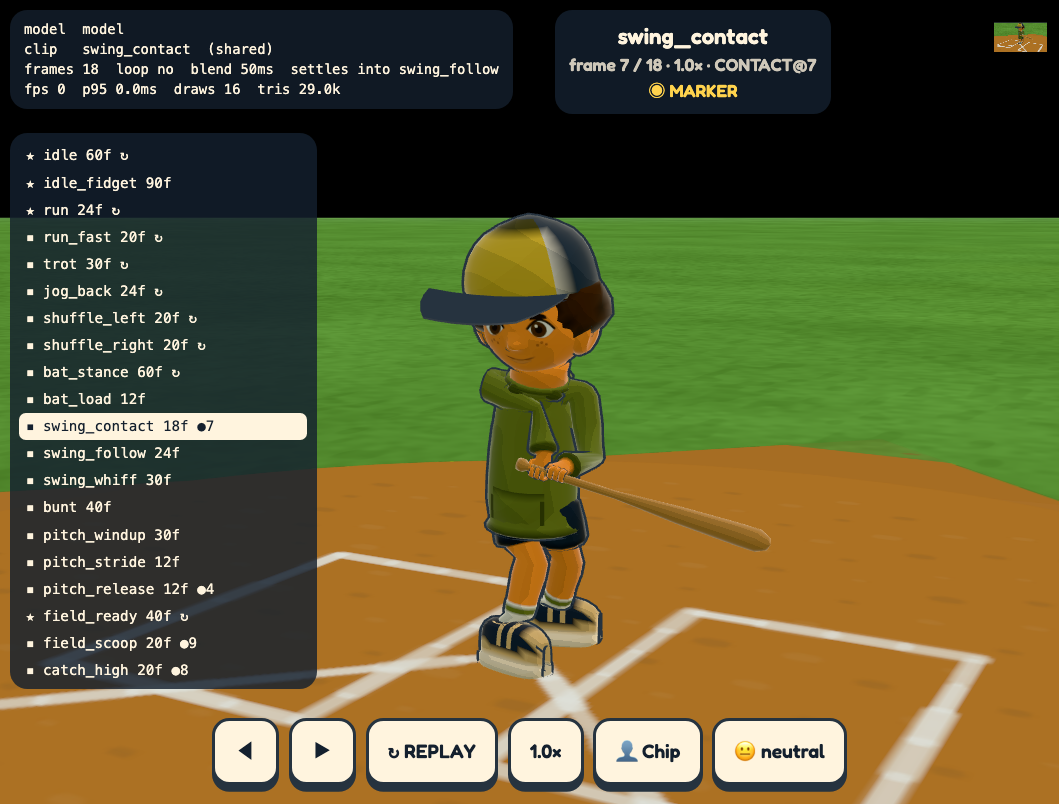
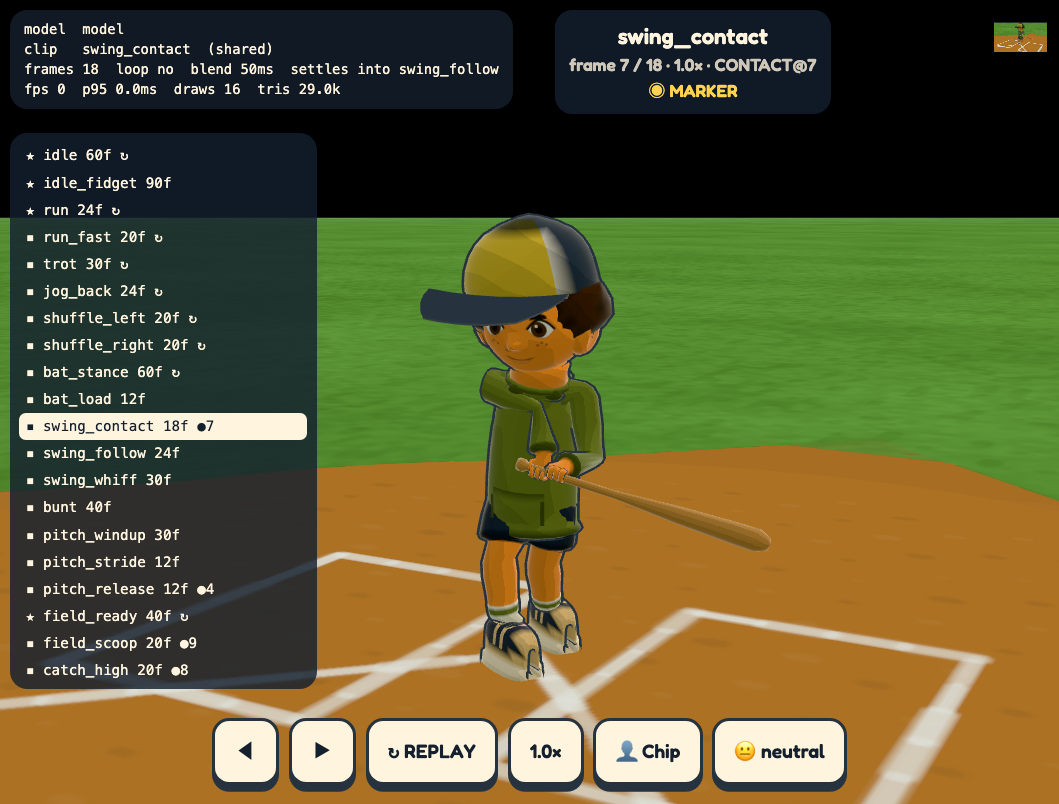
Uncross the batting knees and keep the bat moving through the ball
The follow-ups left open by #257. Seen from the pitcher, the knees crossed at
every pitch height: the pelvis opened while each knee still aimed at the
plate. The knees now follow the hips and the rear foot pivots. The barrel
eased to a stop at contact and then snapped away; it now carries one angular
speed through the ball. Seated, Zoom's trunk no longer side-bends his rear
shoulder into his cheek, and his hands drop past his knees rather than onto
his lap. audit:batting and HandPose.test gain knee-order, knee-cave and
barrel-stall checks; main fails them.

Changed region(s): [[0.4363, 0.6219, 0.5921, 0.8706]]

diff --git a/src/v2/render/battingPose.ts b/src/v2/render/battingPose.ts
@@ -112,7 +112,7 @@ function hermite(p0: Vector3, m0: Vector3, p1: Vector3, m1: Vector3, u: number):
 }
 
 /** The hands at frame `f` of a swing. */
-function swingHands(wind: Vector3, contact: Vector3, through: Vector3, f: number): Vector3 {
+function swingHands(wind: Vector3, contact: Vector3, through: Vector3, f: number, drop = SWING_DROP_FRAME): Vector3 {
   const velocity = through.clone().sub(wind).multiplyScalar(CONTACT_HAND_VELOCITY);
   const along = (launch: number) => {
     if (f <= launch) return wind.clone();
@@ -124,7 +124,7 @@ function swingHands(wind: Vector3, contact: Vector3, through: Vector3, f: number
     const span = to - from;
     return hermite(p0, m0.clone().multiplyScalar(span), p1, m1.clone().multiplyScalar(span), (f - from) / span);
   };
-  const hands = along(SWING_DROP_FRAME).setX(along(SWING_DRIVE_FRAME).x);
+  const hands = along(drop).setX(along(SWING_DRIVE_FRAME).x);
   const u = (f - CONTACT_FRAME) / 2;
   if (Math.abs(u) < 1) hands.x -= CONTACT_WHIP_FT * Math.sin(Math.PI * u) * Math.cos(Math.PI * u / 2) ** 2;
   return hands;
@@ -192,6 +192,24 @@ const BUNT_ELBOW_MARGIN_FT = .25;
  * hands into the belly, and this is a small residual correction.
  */
 const PALM_CLEARANCE_FT = .1;
+/** How far each foot pivots with the opening hips: the rear on its ball, the lead a little. */
+const REAR_FOOT_PIVOT = .6;
+const LEAD_FOOT_PIVOT = .2;
+/**
+ * ★ THE BAT IS FASTEST THROUGH THE BALL. The barrel eased to a stop at contact
+ * and away from it (2.6 degrees per half-frame at the ball, 25 either side), so
+ * the follow-through read as a snap out of a stall. It now arrives at this
+ * slope and leaves at the matching angular speed. Much steeper and the lead
+ * forearm rolls past 25 degrees per quarter-frame on a high pitch (Sprout).
+ */
+const BAT_WHIP = 1.75;
+/**
+ * Seated, the hands start down only from this frame, once they are past the
+ * knees: dropping from frame 1 laid Zoom's palms on his thighs before contact.
+ */
+const SEATED_SWING_DROP_FRAME = 4;
+/** 0 -> 1 over t in [0, 1], still at 0 and arriving at slope `k` (<= 3). */
+const into = (t: number, k: number) => { const u = Math.max(0, Math.min(1, t)); return (k - 2) * u ** 3 + (3 - k) * u * u; };
 const HEAD_FOLLOW = .5;
 /** Still inside the 18-degree look-at-the-pitcher gate (`battingPose.test.ts`). */
 const HEAD_FOLLOW_MAX = 15 * Math.PI / 180;
@@ -442,9 +460,11 @@ export class BattingPose {
       // The margin only works with the bat held out in front (see `apply`):
       // with the hands at the chest there is no low elbow the wrist affords.
       const elbowRise = Math.max(0, elbow.y - (shoulder.y - BUNT_ELBOW_MARGIN_FT));
+      // The wrist limit is a wall in every batting clip, not only the bunt: a
+      // seated low pitch otherwise folded Zoom's knob wrist past 40 degrees.
       const wristOver = Math.max(0, wristBend - WRIST_LIMIT_RAD);
       const score = 8*wristBend*wristBend + elbowPreference*(1-bend.dot(preferred)) + .03*roll*roll + 100*reach*reach + 40*Math.max(0,roll-Math.PI/2)**2
-        + this.buntWeight*((this.seated ? SEATED_ELBOW_WEIGHT : 60)*elbowRise*elbowRise + 400*wristOver*wristOver);
+        + this.buntWeight*(this.seated ? SEATED_ELBOW_WEIGHT : 60)*elbowRise*elbowRise + 400*wristOver*wristOver;
       return {rotation, wrist, bend, score, angle};
     };
     let best = evaluate(0);
@@ -549,12 +569,17 @@ export class BattingPose {
       const f = time * FPS;
       // Contact is the MIDDLE of the fastest sweep, not a stop between two
       // eases: both halves share one tangent and the whip peaks it at frame 7.
-      grip.copy(swingHands(wind, contact, through, f));
+      grip.copy(swingHands(wind, contact, through, f, this.seated ? SEATED_SWING_DROP_FRAME : SWING_DROP_FRAME));
       if (f <= CONTACT_FRAME) {
-        axis.lerp(contactAxis, smooth((f - 3) / 4));
+        axis.lerp(contactAxis, into((f - 3) / 4, BAT_WHIP));
         axis.addScaledVector(X, BAT_LAY_BACK * Math.sin(Math.PI * Math.max(0, Math.min(1, (f - 1) / 4)))).normalize();
       }
-      else axis.copy(contactAxis).lerp(FOLLOW_AXIS.clone(), smooth((f - CONTACT_FRAME) / 4)).normalize();
+      else {
+        // Leave contact at the angular speed it arrived with.
+        const across = (from: Vector3, to: Vector3) => to.clone().sub(from).addScaledVector(from, -to.clone().sub(from).dot(from)).length();
+        const outWhip = Math.min(3, BAT_WHIP * across(contactAxis, contactAxis.clone().sub(readyAxis).add(contactAxis)) / Math.max(1e-3, across(contactAxis, FOLLOW_AXIS)));
+        axis.copy(contactAxis).lerp(FOLLOW_AXIS.clone(), 1 - into(1 - (f - CONTACT_FRAME) / 4, outWhip)).normalize();
+      }
     } else if (name === 'bat_load') {
       grip.lerp(wind, Math.sin(Math.PI * time / framesToSec(clipSpec(name).frames)));
     } else if (name === 'bunt') {
@@ -640,7 +665,16 @@ export class BattingPose {
             const pivot = this.at(waist);
             const from = shoulder.clone().sub(pivot);
             const to = from.clone().add(delta.setLength(excess));
-            const correction = new Quaternion().setFromUnitVectors(from.normalize(), to.normalize());
+            let correction = new Quaternion().setFromUnitVectors(from.normalize(), to.normalize());
+            {
+              // ★ Bend forward and turn, never lean SIDEWAYS: the side-bend
+              // raised Zoom's rear shoulder beside his cheek on a low pitch
+              // (independent review). Drop the roll about the chest's facing.
+              const facing = Z.clone().applyQuaternion(this.rotation(this.bones.get('Spine2')!)).setY(0).normalize();
+              const along = facing.dot(new Vector3(correction.x, correction.y, correction.z));
+              const roll = new Quaternion(facing.x * along, facing.y * along, facing.z * along, correction.w).normalize();
+              correction = correction.multiply(roll.invert());
+            }
             this.set(waist, correction.multiply(this.rotation(waist)));
           }
         }
@@ -705,11 +739,21 @@ export class BattingPose {
         this.positions.set(hips, hips.position.clone());
         hips.position.add(shift);
         this.rig.updateWorldMatrix(true, true);
+        // ★ THE KNEES FOLLOW THE HIPS. Aimed at the plate while the pelvis
+        // turned to the pitcher, both knees folded toward the stance line
+        // between hip joints now spread across it, and from the pitcher they
+        // crossed (knock-kneed at every height; an independent review). Each
+        // knee points where the pelvis faces, and the rear foot pivots on its
+        // ball as the hips open ("squash the bug"), the lead foot a little.
+        const facing = Z.clone().applyQuaternion(this.rotation(hips)); facing.y = 0; facing.normalize();
+        const opened = Math.atan2(facing.x, facing.z);
         for (const side of ['Left', 'Right']) {
           const foot = this.bones.get(`${side}Foot`)!;
           const target = new Vector3(...BIND.get(`${side}Foot`)!).applyQuaternion(footRotation);
-          this.solve(this.bones.get(`${side}UpLeg`)!, this.bones.get(`${side}Leg`)!, foot, target, new Vector3(0, 0, 1));
-          this.set(foot, footRotation);
+          const knee = facing;
+          this.solve(this.bones.get(`${side}UpLeg`)!, this.bones.get(`${side}Leg`)!, foot, target, knee);
+          const pivot = new Quaternion().setFromAxisAngle(Y, opened * (side === 'Right' ? REAR_FOOT_PIVOT : LEAD_FOOT_PIVOT) * (1 - bunt));
+          this.set(foot, pivot.multiply(footRotation));
         }
       }
     }

diff --git a/src/v2/render/HandPose.test.ts b/src/v2/render/HandPose.test.ts
@@ -167,6 +167,7 @@ describe('reference hand behavior',()=>{
       bat.contact=height===null?null:new Vector3(-contactOutFront(seated),height,.55+BAT_SWEET_SPOT_FT);
       for(const clip of ['swing_contact','swing_whiff','swing_follow'] as const){
         const previous=new Map<string,Quaternion>();
+        const barrel={prev:null as Vector3|null,steps:new Map<number,number>()};
         for(let frame=0;frame<clipSpec(clip).frames;frame+=.25){
           bat.restore();bat.apply(clip,frame/FPS);mesh.updateMatrixWorld(true);
           for(const side of ['Left','Right']){
@@ -182,6 +183,23 @@ describe('reference hand behavior',()=>{
             const elbow=at('RightForeArm'),top=at('RightArm').sub(elbow).angleTo(at('RightHand').sub(elbow));
             expect(top,`${height}ft top elbow shut at contact`).toBeGreaterThan((height===1.94?65:80)*Math.PI/180);
           }
+          // The knees keep the hips' order seen from the pitcher (across Z):
+          // aimed at the plate while the pelvis opened, they crossed.
+          if(!seated&&clip!=='swing_follow'){
+            const hips=at('RightUpLeg').z-at('LeftUpLeg').z,knees=at('RightLeg').z-at('LeftLeg').z;
+            if(Math.abs(hips)>.05)expect(knees/hips,`${height}ft ${clip}:${frame} knees cross`).toBeGreaterThan(.1);
+          }
+          if(clip==='swing_contact'){
+            const shaft=new Vector3(0,1,0).applyQuaternion(bones.get('Prop_BatGrip')!.getWorldQuaternion(new Quaternion()));
+            if(barrel.prev)barrel.steps.set(frame,shaft.angleTo(barrel.prev));
+            barrel.prev=shaft;
+          }
+        }
+        // The bat is fastest THROUGH the ball: it once eased to a stop there
+        // (2.6 degrees per half-frame against 25 on either side) and read as a snap.
+        if(clip==='swing_contact'){
+          const through=barrel.steps.get(marker)!,peak=Math.max(...barrel.steps.values());
+          expect(through,`${height}ft barrel stalls at contact`).toBeGreaterThan(.5*peak);
         }
       }
     }

diff --git a/docs/OVERVIEW.md b/docs/OVERVIEW.md
@@ -3209,6 +3209,20 @@ v2 and leaves every existing record and golden fingerprint where it was.
   3.1ft pitches plus the review default and fails a shut elbow, a palm inside
   the body, a dropped pelvis, caved knees or a sunken head; `main` fails all
   of them. At contact the top elbow is 85-132 degrees.
+
+- **The swing's three leftovers**: the reviews behind the out-front swing left
+  three things open, and all three were measurement-first. From the pitcher,
+  the knees CROSSED at every pitch height: the pelvis opened to the pitcher
+  while each knee still aimed at the plate, so both folded toward the stance
+  line between hip joints now spread across it (0.21-0.41ft of cave across
+  the pelvis). The knees now point where the hips face and the rear foot
+  pivots on its ball. The bat STALLED at the ball, easing to a stop at
+  contact (2.6 degrees per half-frame, 25 either side), so the follow-through
+  read as a snap; it now arrives and leaves at one angular speed. Zoom's rear
+  shoulder rose beside his cheek on a low pitch because his seated trunk
+  side-bent to reach; it now bends forward and turns only, and his hands drop
+  once they are past his knees instead of resting on his lap. The strike zone
+  itself is unchanged: it is a rule, and a seated zone is a product decision.
   The fidelity findings stay open for a reviewer.
 
 - **Venue identity from the plate**: captured from the batting camera, Steele,
